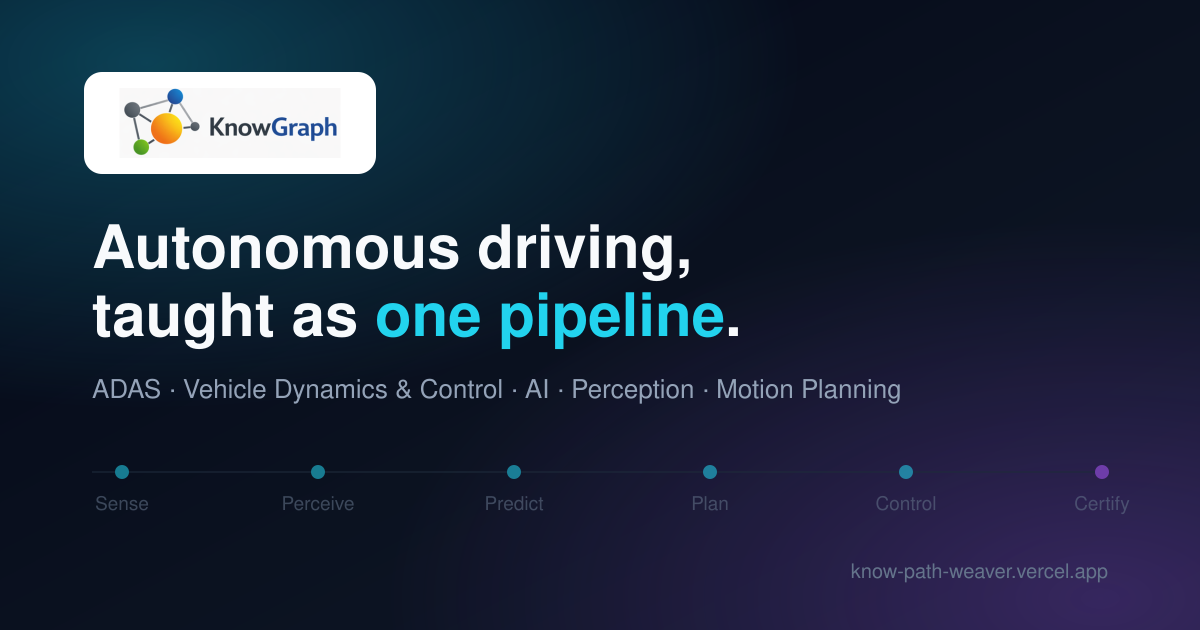
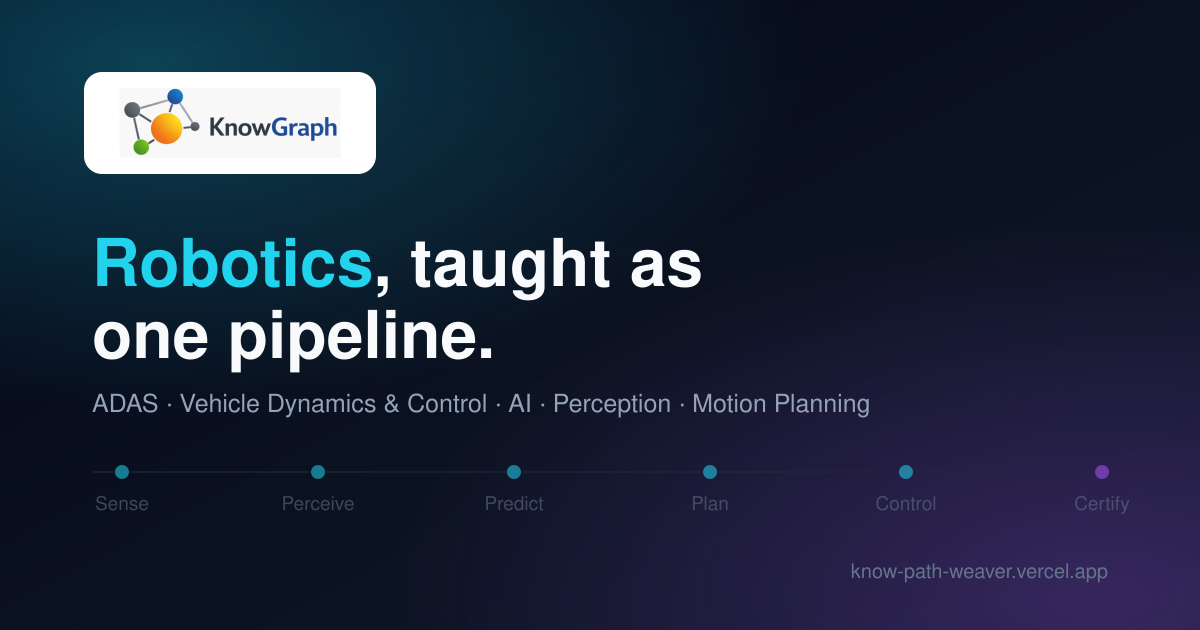
Reposition as 'Robotics, taught as one pipeline'
Broadens the frame from autonomous driving to robotics, which is the honest
description of the catalogue: perception, control, planning and safety are the
same pipeline whether the thing moving is a car or not. Updates the title, the
OG/Twitter tags, the 1200x630 share card and the launch post to lead with it.

Changed region(s): [[0.0617, 0.3619, 0.7708, 0.6635]]

diff --git a/index.html b/index.html
@@ -4,10 +4,10 @@
     <meta charset="UTF-8" />
     <meta name="viewport" content="width=device-width, initial-scale=1.0" />
 
-    <title>KnowGraph — Autonomous driving, taught as one pipeline</title>
+    <title>KnowGraph — Robotics, taught as one pipeline</title>
     <meta
       name="description"
-      content="Learn the autonomous driving stack as one system, not five subjects: ADAS, vehicle dynamics and control, AI, perception and motion planning. Real Colab notebooks, real datasets, and a certificate."
+      content="Learn robotics and autonomy as one system, not five subjects: ADAS, vehicle dynamics and control, AI, perception and motion planning. Real Colab notebooks, real datasets, and a certificate."
     />
     <meta name="author" content="KnowGraph" />
     <link rel="canonical" href="https://know-path-weaver.vercel.app/" />
@@ -19,7 +19,7 @@
       it. og:image must be an absolute URL; a relative one is silently ignored.
     -->
     <meta property="og:site_name" content="KnowGraph" />
-    <meta property="og:title" content="KnowGraph — Autonomous driving, taught as one pipeline" />
+    <meta property="og:title" content="KnowGraph — Robotics, taught as one pipeline" />
     <meta
       property="og:description"
       content="ADAS, vehicle dynamics and control, AI, perception and motion planning — taught in order, as one system. Browse the full curriculum before you pay."
@@ -29,10 +29,10 @@
     <meta property="og:image" content="https://know-path-weaver.vercel.app/og-image.png" />
     <meta property="og:image:width" content="1200" />
     <meta property="og:image:height" content="630" />
-    <meta property="og:image:alt" content="KnowGraph — autonomous driving taught as one pipeline: sense, perceive, predict, plan, control, certify." />
+    <meta property="og:image:alt" content="KnowGraph — robotics taught as one pipeline: sense, perceive, predict, plan, control, certify." />
 
     <meta name="twitter:card" content="summary_large_image" />
-    <meta name="twitter:title" content="KnowGraph — Autonomous driving, taught as one pipeline" />
+    <meta name="twitter:title" content="KnowGraph — Robotics, taught as one pipeline" />
     <meta
       name="twitter:description"
       content="ADAS, vehicle dynamics and control, AI, perception and motion planning — taught in order, as one system."
